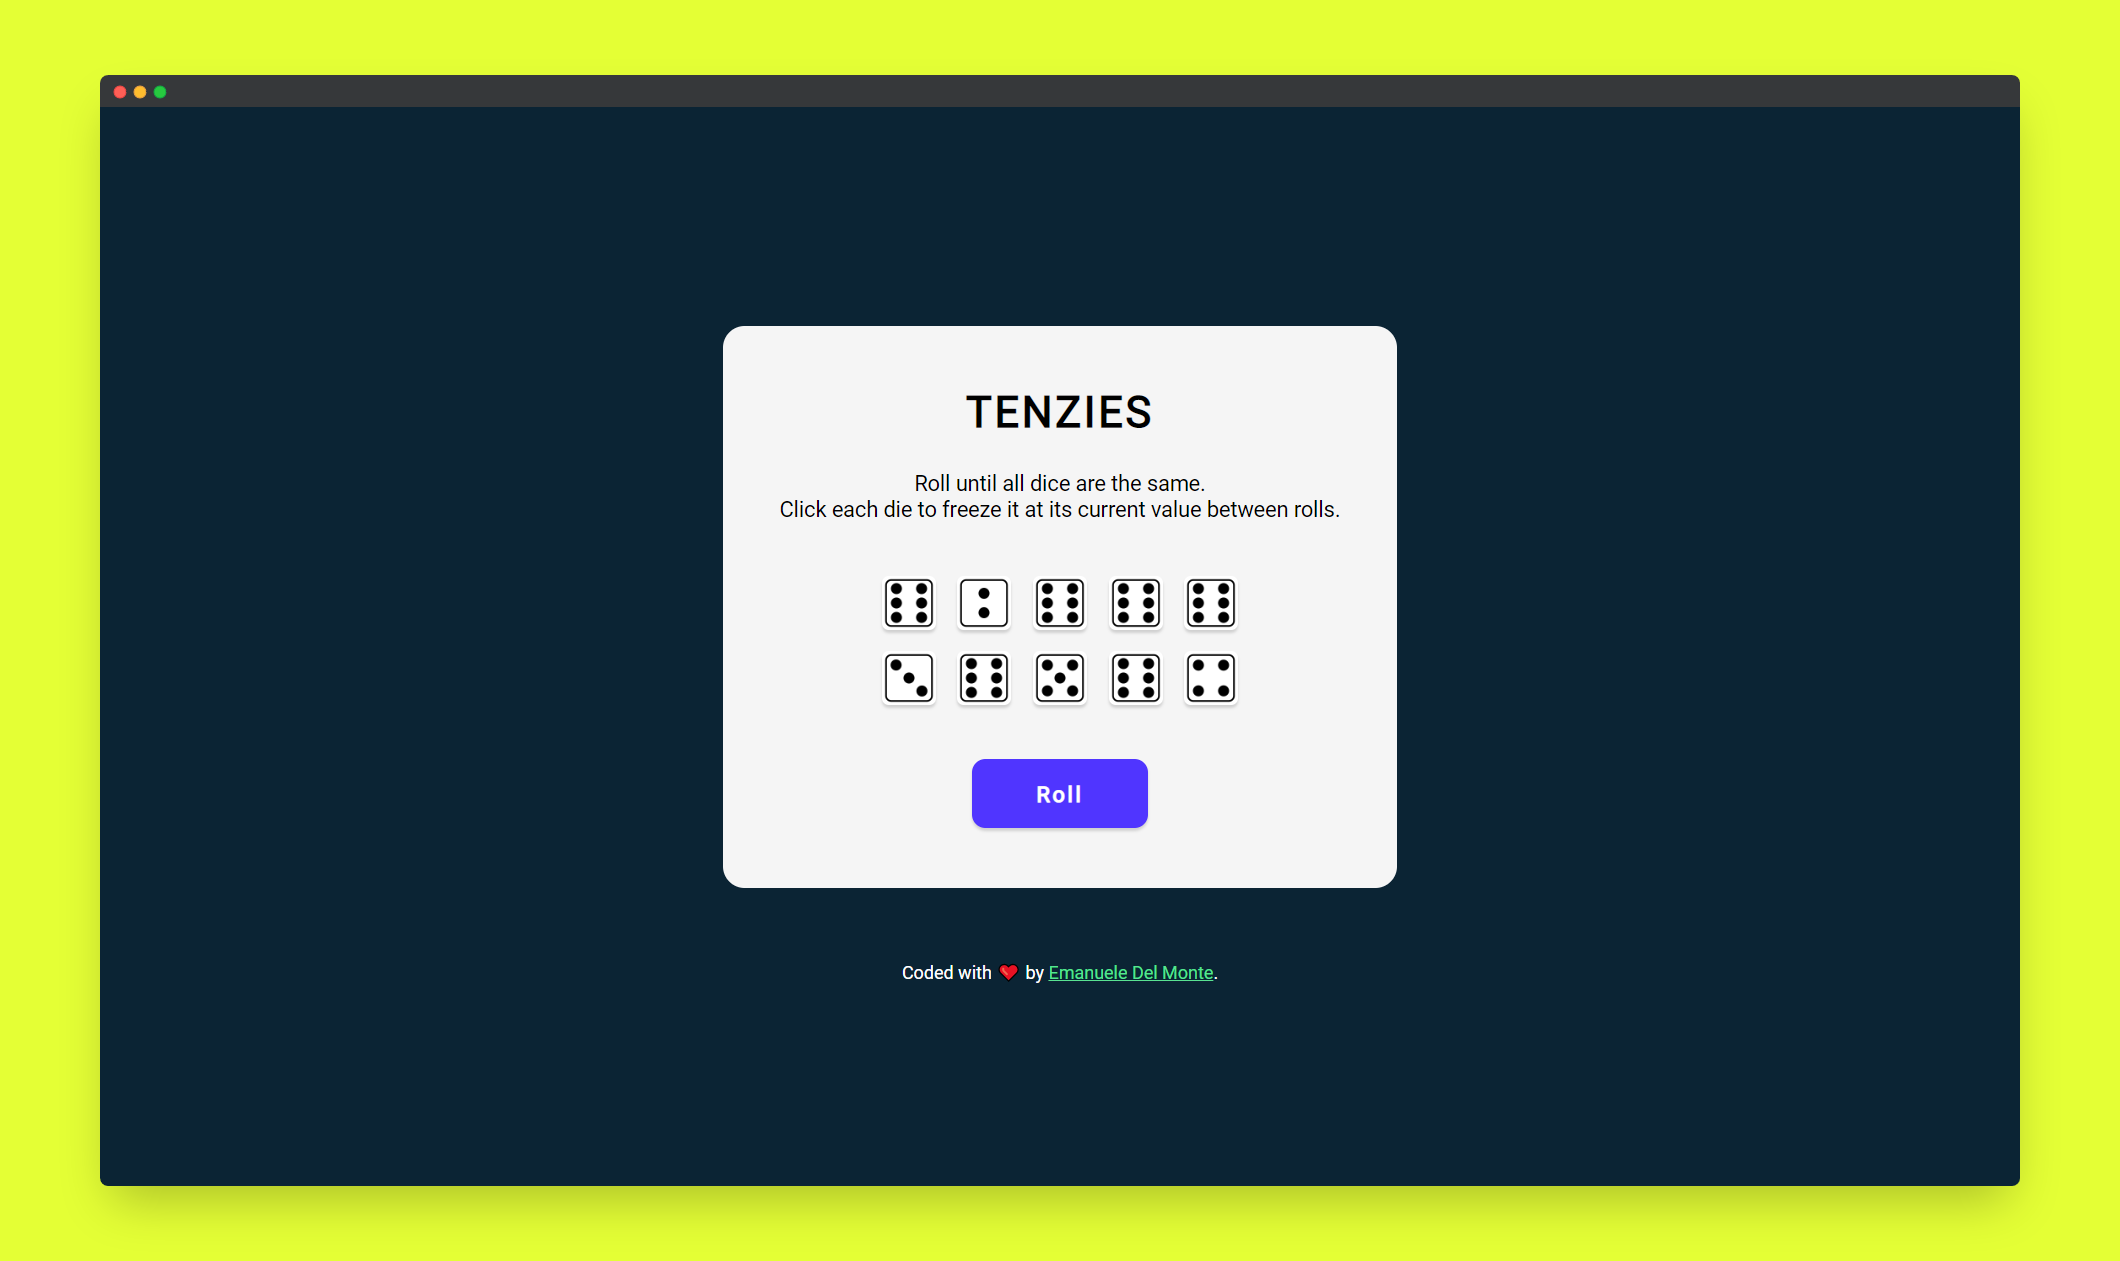
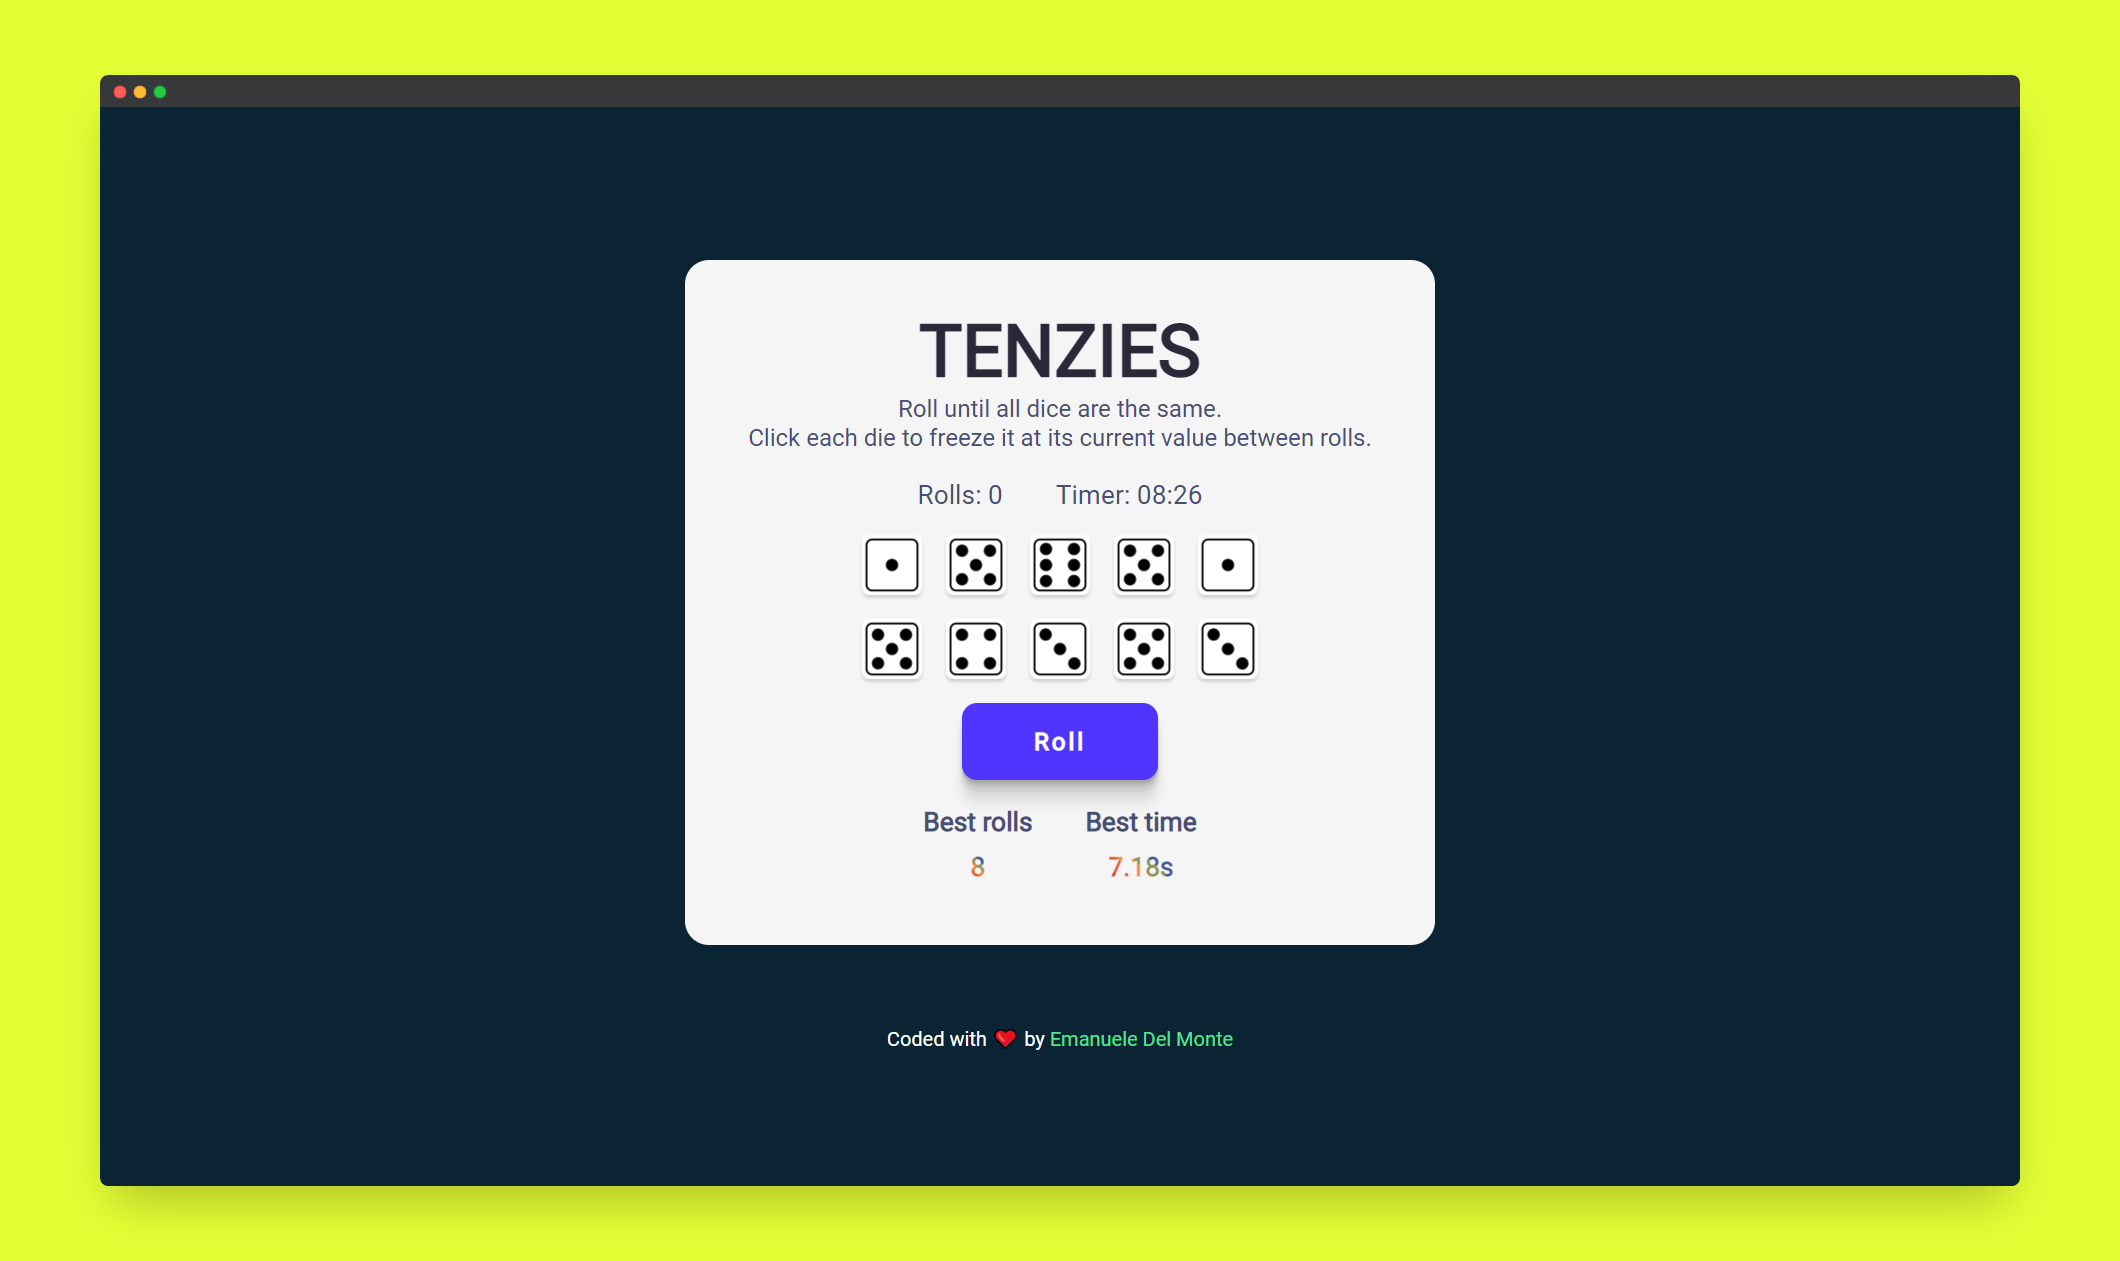
update: new best time features

Changed region(s): [[0.3113, 0.1856, 0.6849, 0.7732], [0.4047, 0.8041, 0.5915, 0.8351]]

diff --git a/src/App.js b/src/App.js
@@ -3,6 +3,7 @@ import Footer from "./components/Footer";
 import Die from "./components/Die";
 import { nanoid } from "nanoid";
 import ReactConfetti from "react-confetti";
+import Scoreboard from "./components/Scoreboard";
 
 export default function App() {
   // Create state to hold our array of numbers
@@ -17,6 +18,12 @@ export default function App() {
     JSON.parse(localStorage.getItem("bestRolls")) || 0
   );
 
+  // const [seconds, setSeconds] = React.useState(0);
+  // const [milliSeconds, setMilliSeconds] = React.useState(0);
+  const [bestTime, setBestTime] = React.useState(
+    JSON.parse(localStorage.getItem("bestTime")) || 0
+  );
+
   // useEffect to sync 2 different states together
   React.useEffect(() => {
     // Check all dice are held
@@ -26,13 +33,35 @@ export default function App() {
     const allSameValue = dice.every((die) => die.value === dice[0].value);
     if (allHeld && allSameValue) {
       setTenzies(true);
+      setStart(false);
+
+      setRecords();
     }
   }, [dice]);
+
+  function setRecords() {
+    // Check if bestRolls doesn't exist or newest rolls are better than bestRolls if so reassign the variable
+    if (!bestRolls || rolls < bestRolls) {
+      setBestRolls(rolls);
+    }
+
+    // To get the seconds, we can divide the milliseconds by 1000
+    const timeFloored = Math.floor((time / 10) % 1000);
+    // Check if bestTime doesn't exist or newest time is lower than bestTime if so reassign the variable
+    if (!bestTime || timeFloored < bestTime) {
+      setBestTime(timeFloored);
+    }
+  }
 
   // Set bestRolls to localStorage every item bestRolls changes
   React.useEffect(() => {
     localStorage.setItem("bestRolls", JSON.stringify(bestRolls));
   }, [bestRolls]);
+
+  // Set bestTime to localStorage every item bestTime changes
+  React.useEffect(() => {
+    localStorage.setItem("bestTime", JSON.stringify(bestTime));
+  }, [bestTime]);
 
   function getRandomInt() {
     // Math.ceil starts at 1 instead of 0
@@ -96,24 +125,42 @@ export default function App() {
           return die.isHeld ? die : generateNewDie();
         })
       );
-
       updateRolls();
     } else {
       // Reset the game if user won and click on button
-      setTenzies(false);
-      // Check if bestRolls doesn't exist or newest rolls are better than bestRolls if so reassign the variable
-      if (!bestRolls || rolls < bestRolls) {
-        setBestRolls(rolls);
-      }
-      setDice(allNewDice());
-      setRolls(0);
+      resetGame();
     }
+  }
+
+  function resetGame() {
+    setTenzies(false);
+    setDice(allNewDice());
+    setRolls(0);
+    setStart(true);
+    setTime(0);
   }
 
   // Increase rolls counter updating previous state
   function updateRolls() {
     return setRolls((oldRolls) => oldRolls + 1);
   }
+
+  // ----------------------------TIMER--------------------------------------- //
+
+  const [time, setTime] = React.useState(0);
+  const [start, setStart] = React.useState(true);
+
+  React.useEffect(() => {
+    let interval = null;
+    if (start) {
+      interval = setInterval(() => {
+        setTime((prevTime) => prevTime + 10);
+      }, 10);
+    } else {
+      clearInterval(interval);
+    }
+    return () => clearInterval(interval);
+  }, [start]);
 
   return (
     <div className="app-container shadow-shorter">
@@ -132,6 +179,15 @@ export default function App() {
 
         <div className="stats-container">
           <p>Rolls: {rolls}</p>
+          <p>
+            {/* divide the time by 10 because that is the value of a millisecond
+            then modulo 1000. Now we will append this to a zero so that when the time starts
+            there will be a zero already instead of just one digit. 
+            Finally we will slice and pass in a parameter of -2 so that when the 
+            number becomes two digits the zero will be removed */}
+            Timer: {("0" + Math.floor((time / 1000) % 60)).slice(-2)}:
+            {("0" + ((time / 10) % 1000)).slice(-2)}
+          </p>
         </div>
 
         <div className="dice-container">{diceElements}</div>
@@ -139,12 +195,8 @@ export default function App() {
         <button className="roll-dice" onClick={rollDice}>
           {tenzies ? "New game" : "Roll"}
         </button>
-        <div className="stats-container">
-          <div className="rolls-best">
-            <p>Best rolls</p>
-            <p>{bestRolls}</p>
-          </div>
-        </div>
+
+        <Scoreboard bestRolls={bestRolls} bestTime={bestTime} />
       </main>
       <Footer />
     </div>

diff --git a/src/components/Scoreboard.js b/src/components/Scoreboard.js
@@ -1,0 +1,19 @@
+import React from "react";
+
+export default function Scoreboard(props) {
+  return (
+    <div className="Scoreboard">
+      <div className="stats-container">
+        <div className="rolls-best">
+          <p>Best rolls</p>
+          <p className="gradient-text">{props.bestRolls}</p>
+        </div>
+        <div className="time-best">
+          <p>Best time</p>
+          {/* Convert milliseconds in seconds */}
+          <p className="gradient-text">{props.bestTime / 100}s</p>
+        </div>
+      </div>
+    </div>
+  );
+}

diff --git a/src/style.css b/src/style.css
@@ -259,7 +259,8 @@ main {
   font-size: 1.1rem;
 }
 
-.rolls-best {
+.rolls-best,
+.time-best {
   display: flex;
   align-items: center;
   flex-direction: column;
@@ -267,8 +268,8 @@ main {
   color: var(--crl-text-darker);
 }
 
-.rolls-best > p:last-child {
-  color: var(--clr-accent);
+.rolls-best > p:last-child,
+.time-best > p:last-child {
   margin-block: 0.5em;
 }
 
@@ -278,7 +279,6 @@ main {
   padding: 1.25em 2.25em;
   justify-content: center;
   text-align: center;
-
   color: var(--clr-lighter);
 }
 

diff --git a/README.md b/README.md
@@ -51,8 +51,8 @@ I'd like to:
 - ~~Put real dots on the dice~~
 - ~~Track the number of rolls~~
 - ~~Save user's best rolls to localStorage~~
-- Track the time it took to win
-- Save user's best time to localStorage
+- ~~Track the time it took to win~~
+- ~~Save user's best time to localStorage~~
 
 ### Useful resources
 
@@ -64,6 +64,7 @@ I'd like to:
 - [Confetti @Github](https://github.com/alampros/react-confetti)
 - [FreeCodeCamp](https://www.freecodecamp.org/news/react-background-image-tutorial-how-to-set-backgroundimage-with-inline-css-style/) - How to Set a Background Image in React Using the Relative URL Method
 - [Fossheim](https://fossheim.io/writing/posts/css-text-gradient) - Text Gradient
+- [Ray Alva](https://medium.com/codex/react-stopwatch-10bf9813d0ec) - React Stopwatch
 
 ## Author
 
@@ -72,4 +73,3 @@ I'd like to:
 ## Credits
 
 - Dice icons created by rizal2109 - [Flaticon](https://www.flaticon.com/free-icons/dice)
-- [Gifer](https://gifer.com/en/BTBq)
